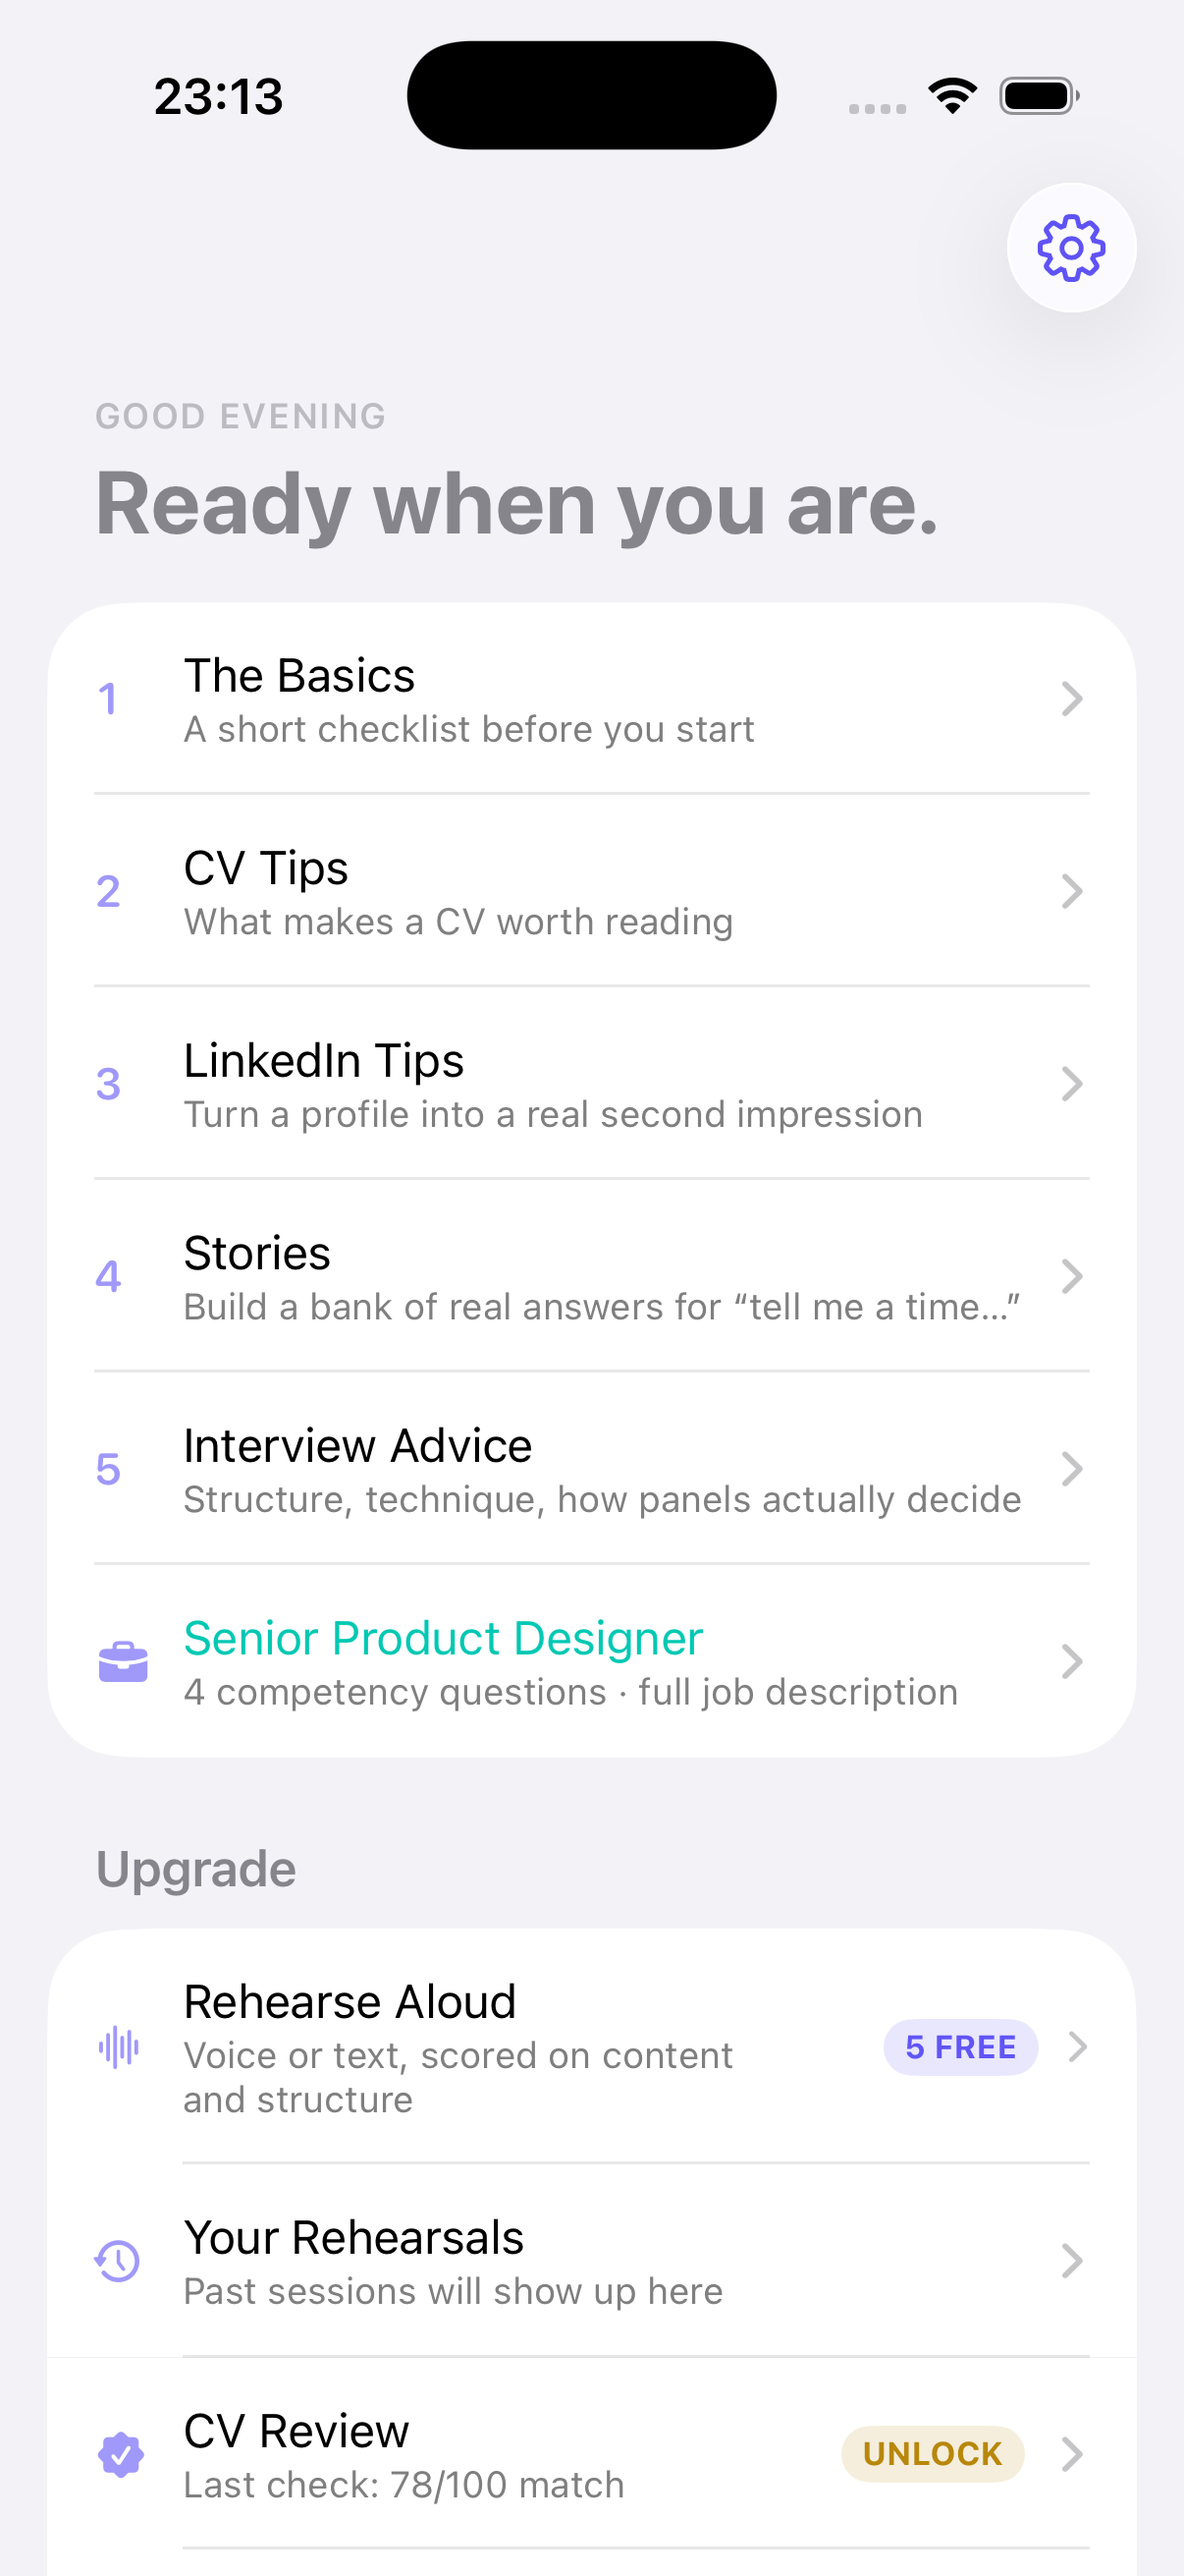
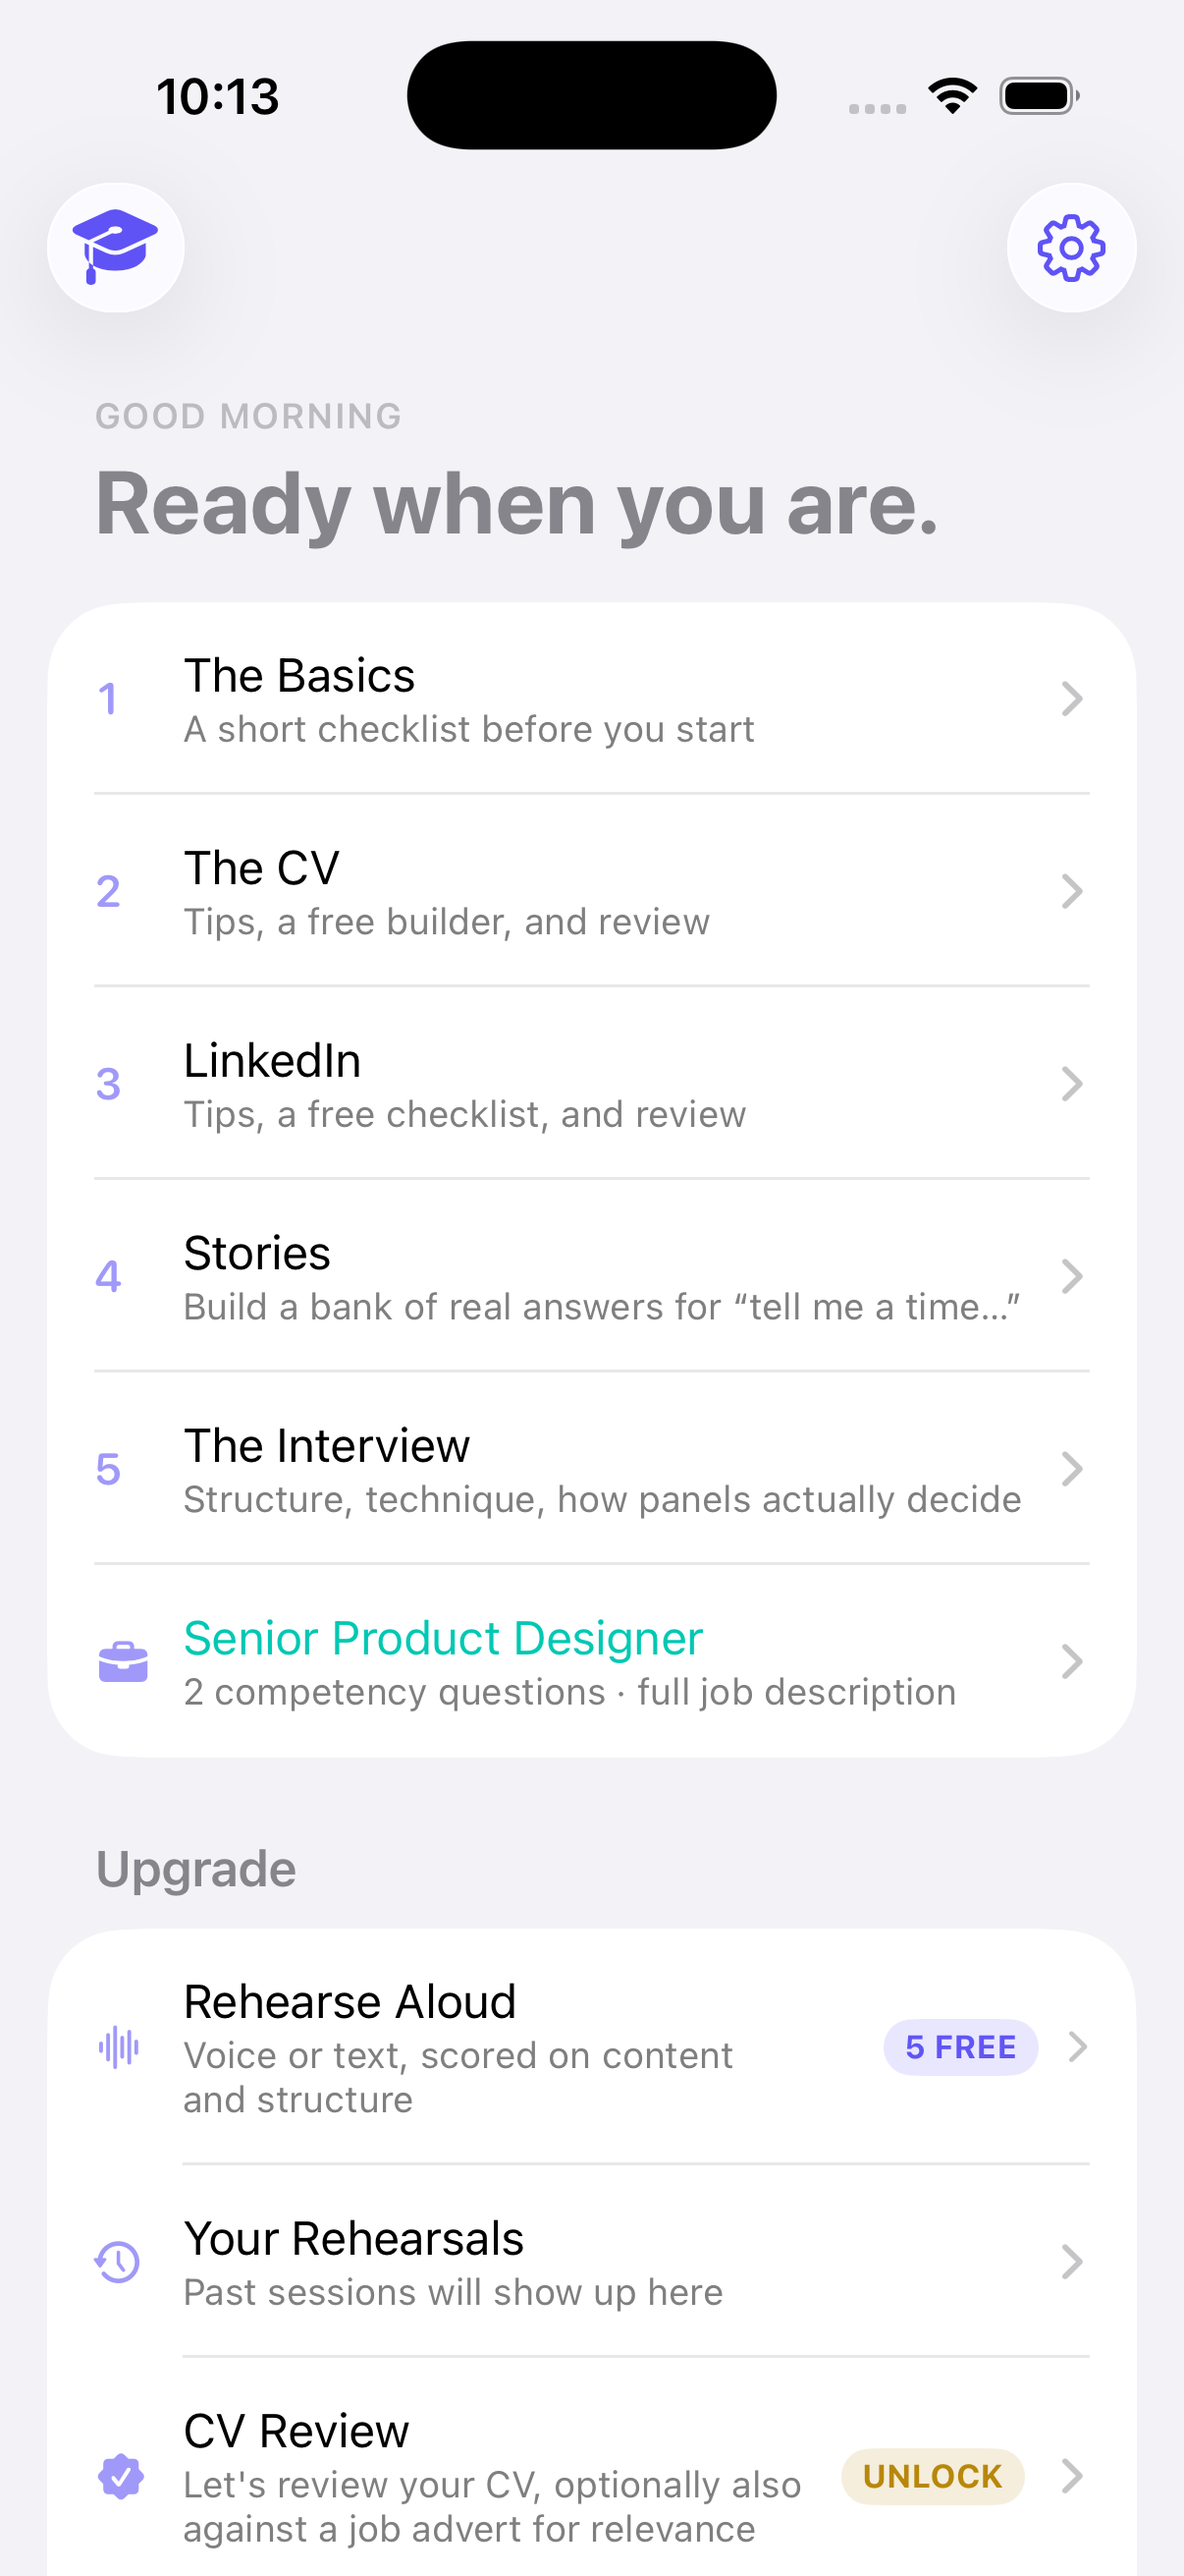
Refresh stale home screenshot, add Quiz to free features list
Home screenshot predated the CV/LinkedIn hub restructuring (CV Tips/
LinkedIn Tips are now grouped under "The CV"/"LinkedIn" instead of
flat rows) and never showed the Quiz toolbar icon. Also adds a Quiz
card to the free-features list, which had no marketing presence.

diff --git a/index.html b/index.html
@@ -60,7 +60,7 @@
 
     <div class="hero-shot">
       <div class="device-frame">
-        <img src="screenshots/home.png" alt="HirePotential's Home screen, showing The Basics, CV Tips, LinkedIn Tips, Stories, Interview Advice, and a researched role with a CV Review score of 78.">
+        <img src="screenshots/home.png" alt="HirePotential's Home screen, showing The Basics, The CV, LinkedIn, Stories, The Interview, and a researched role ready to rehearse.">
       </div>
     </div>
   </div>
@@ -151,6 +151,10 @@
       <div class="extra">
         <h3>Interview Advice</h3>
         <p>Structure, technique, and how panels actually decide — the fundamentals behind every rehearsal.</p>
+      </div>
+      <div class="extra">
+        <h3>Quiz</h3>
+        <p>A quick multiple-choice check on CV, LinkedIn, Stories, and interview technique — a random set each time.</p>
       </div>
     </div>
   </div>
